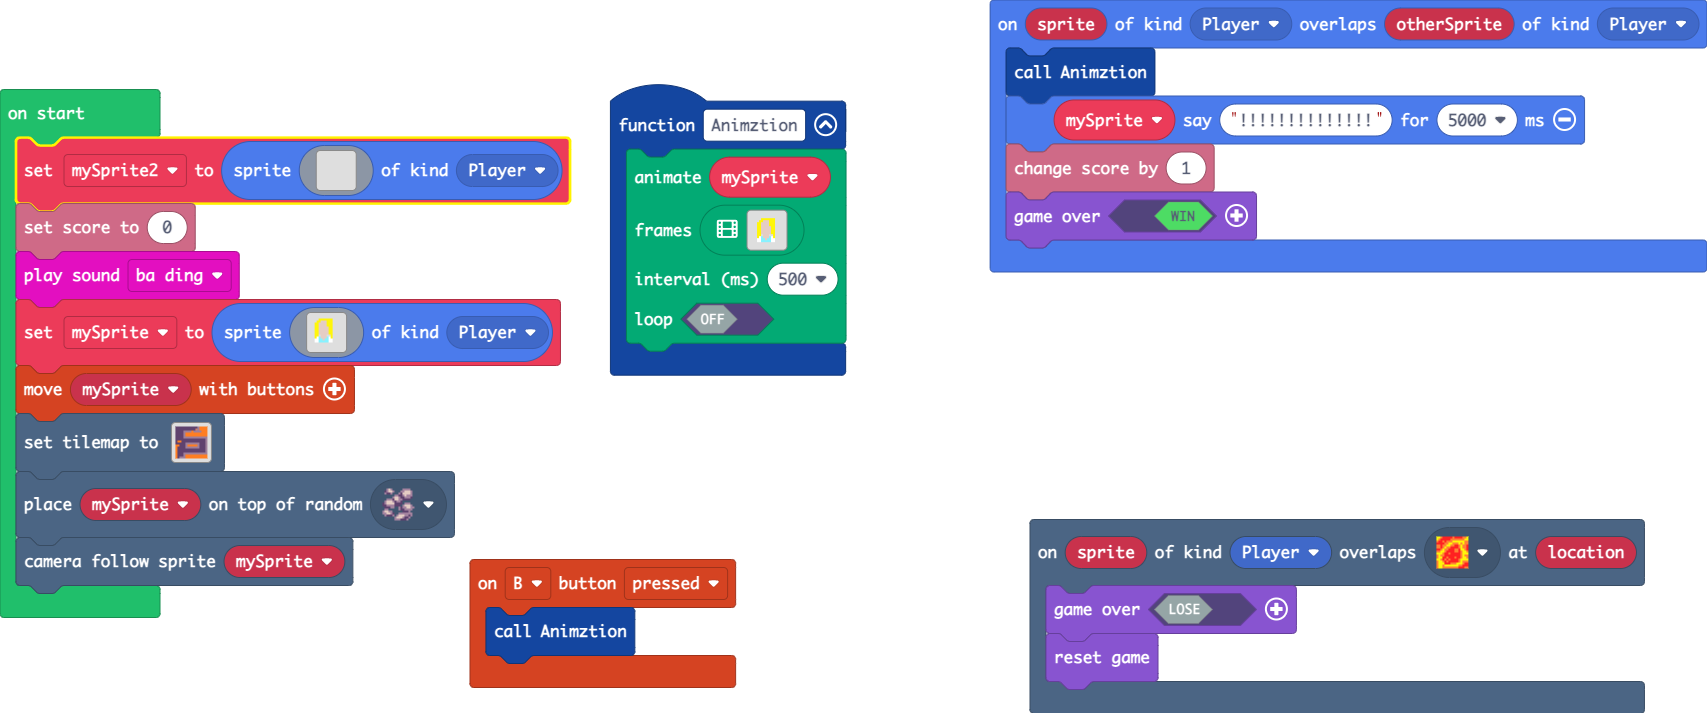
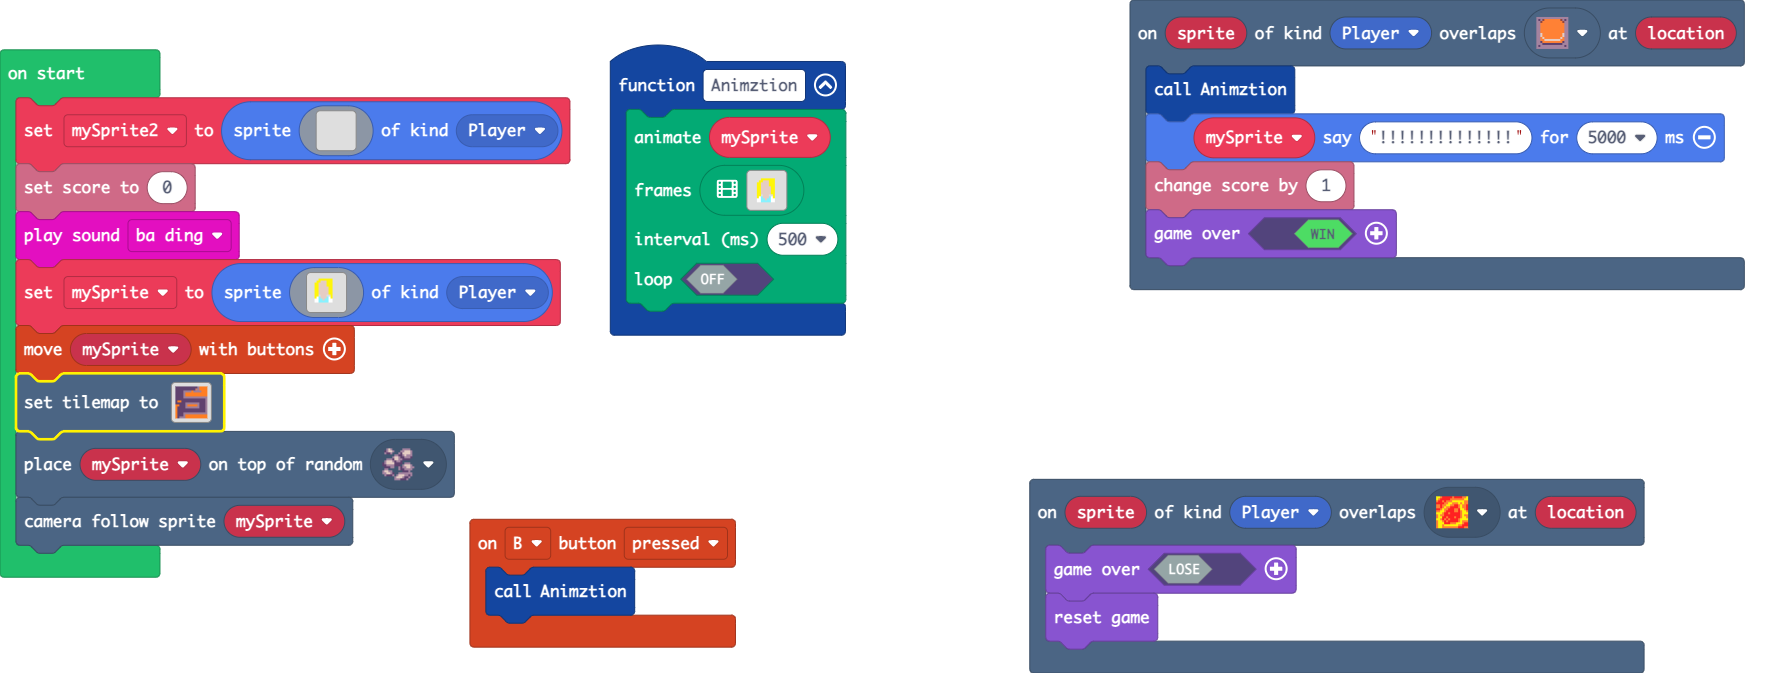
Update main.blocks, main.ts

diff --git a/main.ts b/main.ts
@@ -81,7 +81,7 @@ function Animztion () {
     false
     )
 }
-sprites.onOverlap(SpriteKind.Player, SpriteKind.Player, function (sprite, otherSprite) {
+scene.onOverlapTile(SpriteKind.Player, sprites.dungeon.buttonOrange, function (sprite, location) {
     Animztion()
     mySprite.say("!!!!!!!!!!!!!!", 5000)
     info.changeScoreBy(1)
